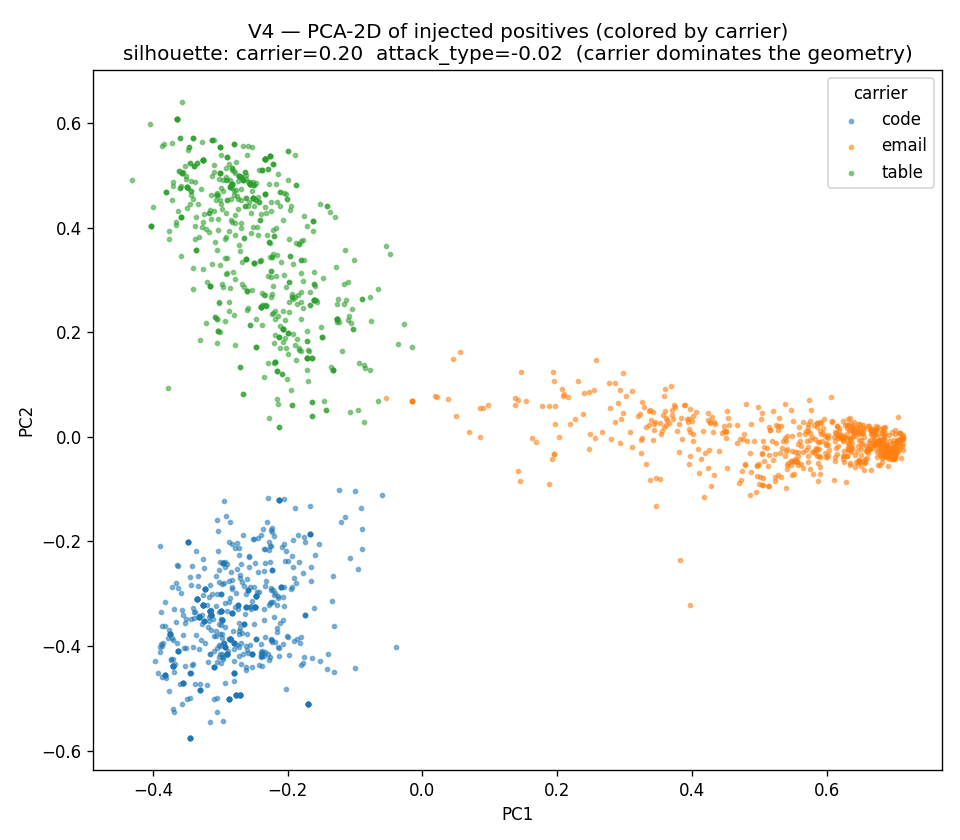
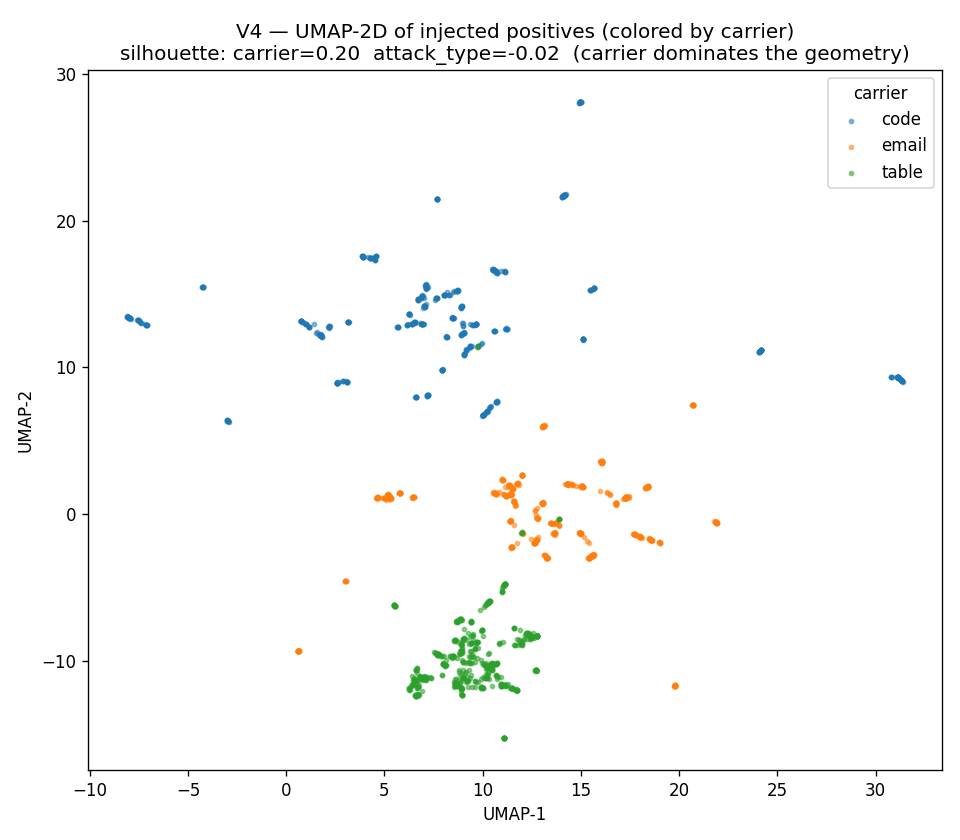
fix(eda): V4 uses UMAP (the design's projector), not the PCA shortcut
Reviewer caught that V4 silently downgraded the design's UMAP to PCA to dodge a
dependency — a momentum shortcut, not a real constraint (umap-learn 0.5.12 +
numba 0.65.1 install cleanly on py3.13). Added umap-learn to [dev] (EDA-only
tooling, within the ADR-051 GPU-EDA exception scope) + regenerated V4 with UMAP.
The silhouette/ARI rigor is computed on the FULL embedding (projector-independent)
so the carrier-dominance finding is unchanged (silhouette carrier=0.197 vs
attack_type=-0.023; ARI 0.98); UMAP only makes the 2-D scatter faithful.

Generated with Claude Code

diff --git a/experiments/eda/OOD_WALL_PREDICTION/run_a1_v4.py b/experiments/eda/OOD_WALL_PREDICTION/run_a1_v4.py
@@ -2,11 +2,11 @@
 
 A1 — occupancy of the positive class over (channel × intent/subfamily × technique
 [attack_type] × split): is "PI detection" actually one corner of the cube? V4 —
-2-D embedding geometry. UMAP is absent locally, so a deterministic **PCA**
-projection is used; per the design the rigor is the **silhouette / ARI / PAD**
-pairing (which grouping the geometry actually separates), NOT eyeballing the
-scatter. The metrics quantify the carrier-dominates-embedding finding from
-`run_prediction.py`.
+2-D embedding geometry via **UMAP** (the design's choice; `umap-learn` is a [dev]
+EDA tool under the ADR-051 GPU-EDA exception). Per the design the rigor is the
+**silhouette / ARI / PAD** pairing — computed on the FULL embedding
+(projector-independent), NOT eyeballing the scatter — so the carrier-dominance
+finding is identical regardless of projector; UMAP only makes the scatter faithful.
 
 Run:  uv run python experiments/eda/OOD_WALL_PREDICTION/run_a1_v4.py
 """
@@ -24,8 +24,8 @@ import matplotlib.pyplot as plt
 import numpy as np
 import pandas as pd
 from sklearn.cluster import KMeans
-from sklearn.decomposition import PCA
 from sklearn.metrics import adjusted_rand_score, silhouette_score
+from umap import UMAP
 
 from eval_toolkit.embeddings import make_minilm_embedder
 
@@ -55,7 +55,7 @@ def main() -> None:
     samp = pos.sample(n=min(1800, len(pos)), random_state=SEED).reset_index(drop=True)
     embed = make_minilm_embedder()
     emb = np.asarray(embed(samp["text"].tolist()), dtype=float)
-    coords = PCA(n_components=2, random_state=SEED).fit_transform(emb)
+    coords = UMAP(n_components=2, random_state=SEED).fit_transform(emb)
 
     carrier_codes = samp["carrier"].astype("category").cat.codes.to_numpy()
     type_codes = samp["attack_type"].astype("category").cat.codes.to_numpy()
@@ -109,12 +109,12 @@ def main() -> None:
         ax.scatter(coords[m, 0], coords[m, 1], s=6, alpha=0.5, label=name)
     ax.legend(title="carrier")
     ax.set_title(
-        f"V4 — PCA-2D of injected positives (colored by carrier)\n"
+        f"V4 — UMAP-2D of injected positives (colored by carrier)\n"
         f"silhouette: carrier={sil['by_carrier']:.2f}  attack_type={sil['by_attack_type']:.2f}  "
         f"(carrier dominates the geometry)"
     )
-    ax.set_xlabel("PC1")
-    ax.set_ylabel("PC2")
+    ax.set_xlabel("UMAP-1")
+    ax.set_ylabel("UMAP-2")
     fig.tight_layout()
     fig.savefig(HERE / "V4_embedding_geometry.png", dpi=120)
     plt.close(fig)
